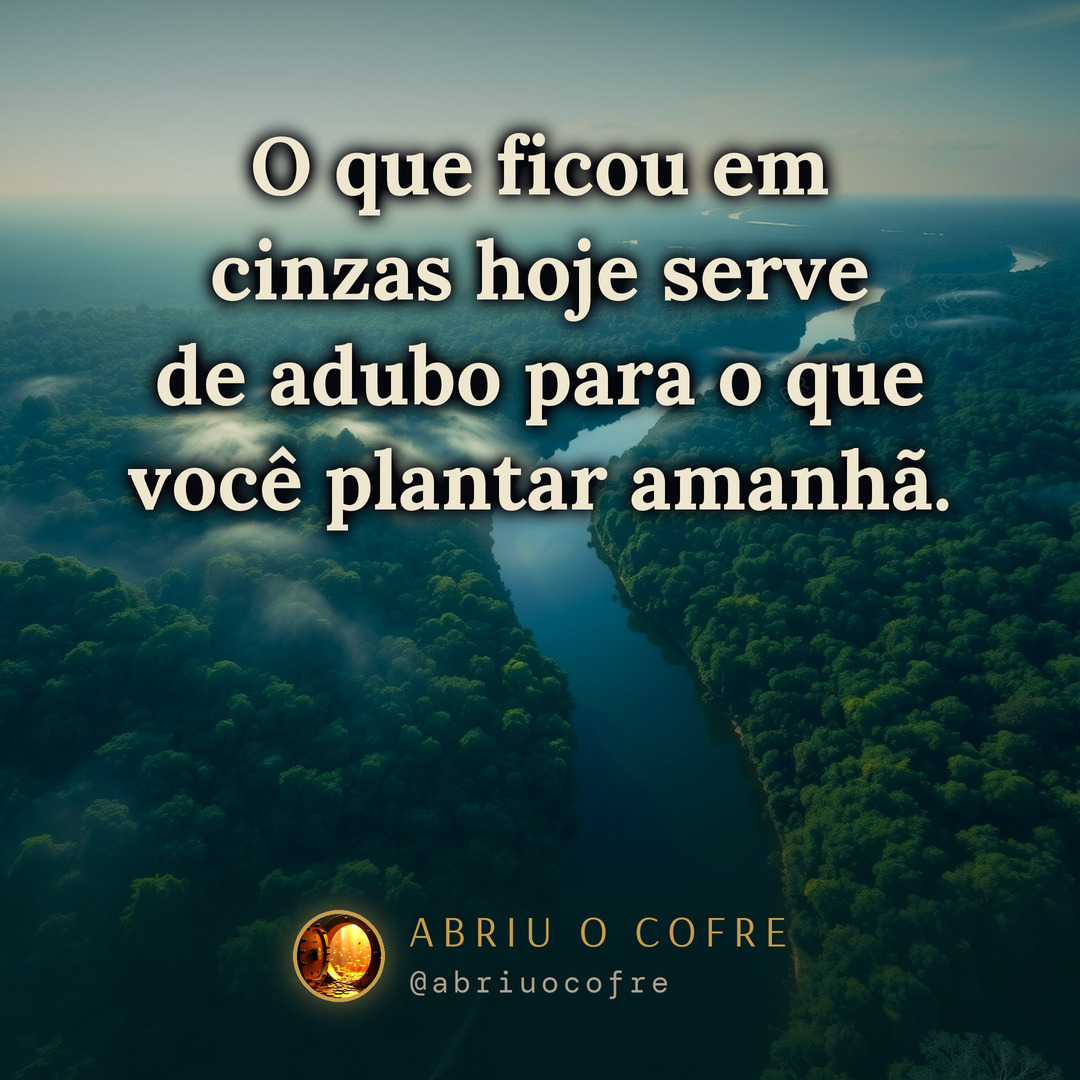
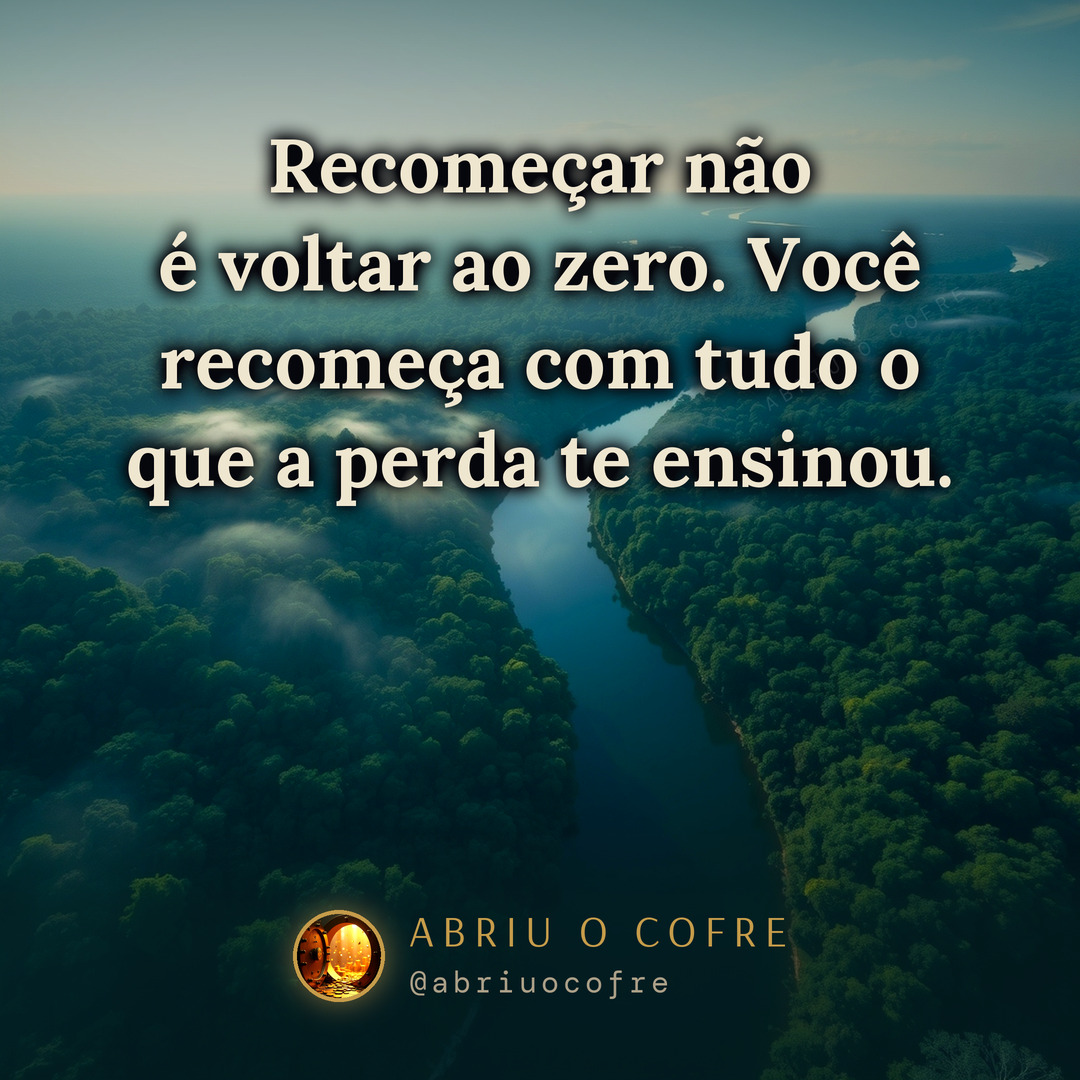
Cartao mot-031 com frase nova (escrita a mao) e 3 paginas-ponte cie com o resumo novo
Retira do site o texto da NVIDIA (so teste, Termos cl. 1.2 - Mural A-0313): mot-031 refeito; pontes ca-cie-008/009/010 regeneradas a partir da legenda ja trocada na fila.

Changed region(s): [[0.1222, 0.0917, 0.8861, 0.5194]]

diff --git a/p/ca-cie-009.html b/p/ca-cie-009.html
@@ -4,23 +4,23 @@
 <meta charset="utf-8">
 <meta name="viewport" content="width=device-width, initial-scale=1">
 <meta name="robots" content="noindex, follow">
-<title>Pesquisadores da USP mostraram que descolorante com água oxigenada somado à luz do sol… — Abriu o Cofre</title>
+<title>Na Universidade de São Paulo, o químico Raphael Machado viu que a descoloração com pó e… — Abriu o Cofre</title>
 <meta name="description" content="Cartões, ofertas e descobertas todo dia no Abriu o Cofre.">
 <meta name="theme-color" content="#0A0D12">
 <link rel="icon" href="https://abriuocofre.github.io/logo.png">
 <link rel="canonical" href="https://abriuocofre.github.io/p/ca-cie-009.html">
 <meta property="og:type" content="article">
-<meta property="og:title" content="Pesquisadores da USP mostraram que descolorante com água oxigenada somado à luz do sol…">
+<meta property="og:title" content="Na Universidade de São Paulo, o químico Raphael Machado viu que a descoloração com pó e…">
 <meta property="og:description" content="Cartões, ofertas e descobertas todo dia no Abriu o Cofre.">
 <meta property="og:image" content="https://abriuocofre.github.io/img/ponte/ca-cie-009-og.jpg">
 <meta property="og:image:width" content="1200">
 <meta property="og:image:height" content="630">
-<meta property="og:image:alt" content="Pesquisadores da USP mostraram que descolorante com água oxigenada somado à luz do sol…">
+<meta property="og:image:alt" content="Na Universidade de São Paulo, o químico Raphael Machado viu que a descoloração com pó e…">
 <meta property="og:url" content="https://abriuocofre.github.io/p/ca-cie-009.html">
 <meta property="og:site_name" content="Abriu o Cofre">
 <meta property="og:locale" content="pt_BR">
 <meta name="twitter:card" content="summary_large_image">
-<meta name="twitter:title" content="Pesquisadores da USP mostraram que descolorante com água oxigenada somado à luz do sol…">
+<meta name="twitter:title" content="Na Universidade de São Paulo, o químico Raphael Machado viu que a descoloração com pó e…">
 <meta name="twitter:image" content="https://abriuocofre.github.io/img/ponte/ca-cie-009-og.jpg">
 <link rel="preconnect" href="https://fonts.googleapis.com">
 <link rel="preconnect" href="https://fonts.gstatic.com" crossorigin>
@@ -97,8 +97,8 @@ h1{font-family:"Chakra Petch","Segoe UI",sans-serif;font-weight:600;
 <main>
   <p><a class="ir ir-topo" href="https://abriuocofre.github.io/" target="_blank" rel="noopener">Ver os achados do cofre →</a></p>
   <span class="loja-tag depois">Abriu o Cofre</span>
-  <h1>Pesquisadores da USP mostraram que descolorante com água oxigenada somado à luz do sol…</h1>
-  <figure class="foto"><a href="https://abriuocofre.github.io/" target="_blank" rel="noopener"><img src="https://abriuocofre.github.io/cartoes-jpg/cie-009.jpg" alt="Pesquisadores da USP mostraram que descolorante com água oxigenada somado à luz do sol…" width="1080" height="1350"></a></figure>
+  <h1>Na Universidade de São Paulo, o químico Raphael Machado viu que a descoloração com pó e…</h1>
+  <figure class="foto"><a href="https://abriuocofre.github.io/" target="_blank" rel="noopener"><img src="https://abriuocofre.github.io/cartoes-jpg/cie-009.jpg" alt="Na Universidade de São Paulo, o químico Raphael Machado viu que a descoloração com pó e…" width="1080" height="1350"></a></figure>
   
 </main>
 </div>

diff --git a/p/ca-cie-010.html b/p/ca-cie-010.html
@@ -4,23 +4,23 @@
 <meta charset="utf-8">
 <meta name="viewport" content="width=device-width, initial-scale=1">
 <meta name="robots" content="noindex, follow">
-<title>Cientistas da Universidade de Mogi das Cruzes criaram um aparelho que mexe o chão para… — Abriu o Cofre</title>
+<title>Pesquisadores da Universidade de Mogi das Cruzes criaram uma plataforma que se mexe… — Abriu o Cofre</title>
 <meta name="description" content="Cartões, ofertas e descobertas todo dia no Abriu o Cofre.">
 <meta name="theme-color" content="#0A0D12">
 <link rel="icon" href="https://abriuocofre.github.io/logo.png">
 <link rel="canonical" href="https://abriuocofre.github.io/p/ca-cie-010.html">
 <meta property="og:type" content="article">
-<meta property="og:title" content="Cientistas da Universidade de Mogi das Cruzes criaram um aparelho que mexe o chão para…">
+<meta property="og:title" content="Pesquisadores da Universidade de Mogi das Cruzes criaram uma plataforma que se mexe…">
 <meta property="og:description" content="Cartões, ofertas e descobertas todo dia no Abriu o Cofre.">
 <meta property="og:image" content="https://abriuocofre.github.io/img/ponte/ca-cie-010-og.jpg">
 <meta property="og:image:width" content="1200">
 <meta property="og:image:height" content="630">
-<meta property="og:image:alt" content="Cientistas da Universidade de Mogi das Cruzes criaram um aparelho que mexe o chão para…">
+<meta property="og:image:alt" content="Pesquisadores da Universidade de Mogi das Cruzes criaram uma plataforma que se mexe…">
 <meta property="og:url" content="https://abriuocofre.github.io/p/ca-cie-010.html">
 <meta property="og:site_name" content="Abriu o Cofre">
 <meta property="og:locale" content="pt_BR">
 <meta name="twitter:card" content="summary_large_image">
-<meta name="twitter:title" content="Cientistas da Universidade de Mogi das Cruzes criaram um aparelho que mexe o chão para…">
+<meta name="twitter:title" content="Pesquisadores da Universidade de Mogi das Cruzes criaram uma plataforma que se mexe…">
 <meta name="twitter:image" content="https://abriuocofre.github.io/img/ponte/ca-cie-010-og.jpg">
 <link rel="preconnect" href="https://fonts.googleapis.com">
 <link rel="preconnect" href="https://fonts.gstatic.com" crossorigin>
@@ -97,8 +97,8 @@ h1{font-family:"Chakra Petch","Segoe UI",sans-serif;font-weight:600;
 <main>
   <p><a class="ir ir-topo" href="https://abriuocofre.github.io/" target="_blank" rel="noopener">Ver os achados do cofre →</a></p>
   <span class="loja-tag depois">Abriu o Cofre</span>
-  <h1>Cientistas da Universidade de Mogi das Cruzes criaram um aparelho que mexe o chão para…</h1>
-  <figure class="foto"><a href="https://abriuocofre.github.io/" target="_blank" rel="noopener"><img src="https://abriuocofre.github.io/cartoes-jpg/cie-010.jpg" alt="Cientistas da Universidade de Mogi das Cruzes criaram um aparelho que mexe o chão para…" width="1080" height="1350"></a></figure>
+  <h1>Pesquisadores da Universidade de Mogi das Cruzes criaram uma plataforma que se mexe…</h1>
+  <figure class="foto"><a href="https://abriuocofre.github.io/" target="_blank" rel="noopener"><img src="https://abriuocofre.github.io/cartoes-jpg/cie-010.jpg" alt="Pesquisadores da Universidade de Mogi das Cruzes criaram uma plataforma que se mexe…" width="1080" height="1350"></a></figure>
   
 </main>
 </div>

diff --git a/p/ca-cie-008.html b/p/ca-cie-008.html
@@ -4,23 +4,23 @@
 <meta charset="utf-8">
 <meta name="viewport" content="width=device-width, initial-scale=1">
 <meta name="robots" content="noindex, follow">
-<title>A Universidade Nacional de Cingapura criou um aparelho que sente o toque e vira ação… — Abriu o Cofre</title>
+<title>A Universidade Nacional de Cingapura criou um sensor de toque totalmente mecânico… — Abriu o Cofre</title>
 <meta name="description" content="Cartões, ofertas e descobertas todo dia no Abriu o Cofre.">
 <meta name="theme-color" content="#0A0D12">
 <link rel="icon" href="https://abriuocofre.github.io/logo.png">
 <link rel="canonical" href="https://abriuocofre.github.io/p/ca-cie-008.html">
 <meta property="og:type" content="article">
-<meta property="og:title" content="A Universidade Nacional de Cingapura criou um aparelho que sente o toque e vira ação…">
+<meta property="og:title" content="A Universidade Nacional de Cingapura criou um sensor de toque totalmente mecânico…">
 <meta property="og:description" content="Cartões, ofertas e descobertas todo dia no Abriu o Cofre.">
 <meta property="og:image" content="https://abriuocofre.github.io/img/ponte/ca-cie-008-og.jpg">
 <meta property="og:image:width" content="1200">
 <meta property="og:image:height" content="630">
-<meta property="og:image:alt" content="A Universidade Nacional de Cingapura criou um aparelho que sente o toque e vira ação…">
+<meta property="og:image:alt" content="A Universidade Nacional de Cingapura criou um sensor de toque totalmente mecânico…">
 <meta property="og:url" content="https://abriuocofre.github.io/p/ca-cie-008.html">
 <meta property="og:site_name" content="Abriu o Cofre">
 <meta property="og:locale" content="pt_BR">
 <meta name="twitter:card" content="summary_large_image">
-<meta name="twitter:title" content="A Universidade Nacional de Cingapura criou um aparelho que sente o toque e vira ação…">
+<meta name="twitter:title" content="A Universidade Nacional de Cingapura criou um sensor de toque totalmente mecânico…">
 <meta name="twitter:image" content="https://abriuocofre.github.io/img/ponte/ca-cie-008-og.jpg">
 <link rel="preconnect" href="https://fonts.googleapis.com">
 <link rel="preconnect" href="https://fonts.gstatic.com" crossorigin>
@@ -97,8 +97,8 @@ h1{font-family:"Chakra Petch","Segoe UI",sans-serif;font-weight:600;
 <main>
   <p><a class="ir ir-topo" href="https://abriuocofre.github.io/" target="_blank" rel="noopener">Ver os achados do cofre →</a></p>
   <span class="loja-tag depois">Abriu o Cofre</span>
-  <h1>A Universidade Nacional de Cingapura criou um aparelho que sente o toque e vira ação…</h1>
-  <figure class="foto"><a href="https://abriuocofre.github.io/" target="_blank" rel="noopener"><img src="https://abriuocofre.github.io/cartoes-jpg/cie-008.jpg" alt="A Universidade Nacional de Cingapura criou um aparelho que sente o toque e vira ação…" width="1080" height="1350"></a></figure>
+  <h1>A Universidade Nacional de Cingapura criou um sensor de toque totalmente mecânico…</h1>
+  <figure class="foto"><a href="https://abriuocofre.github.io/" target="_blank" rel="noopener"><img src="https://abriuocofre.github.io/cartoes-jpg/cie-008.jpg" alt="A Universidade Nacional de Cingapura criou um sensor de toque totalmente mecânico…" width="1080" height="1350"></a></figure>
   
 </main>
 </div>
